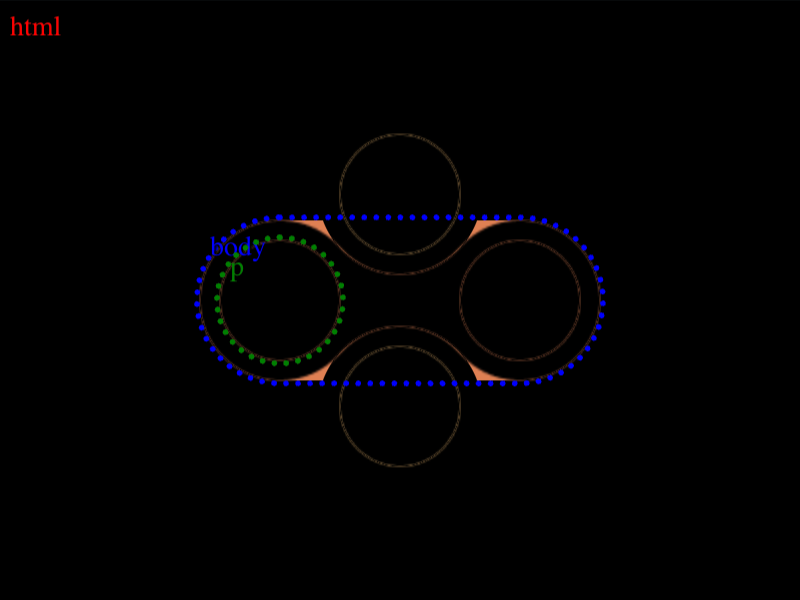
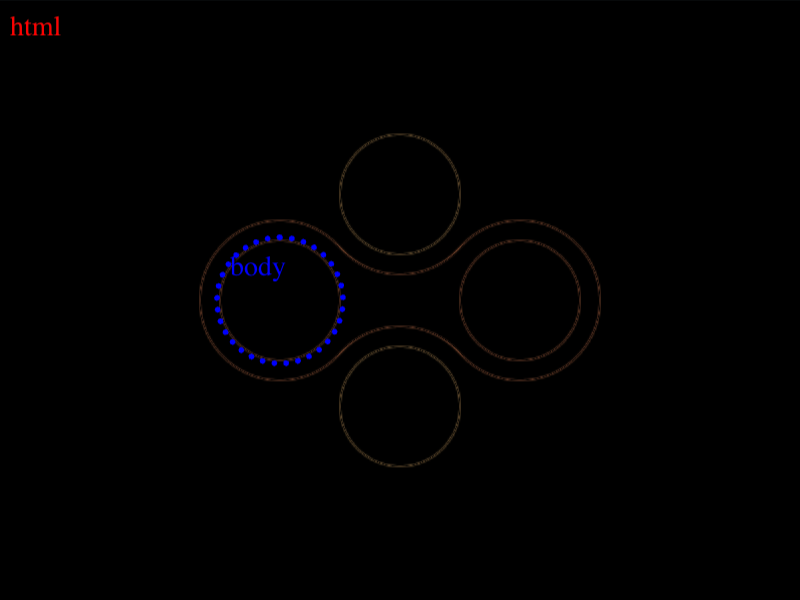
Score: 635.88, Characters: 253 (100.00% match) - CSSHub

diff --git a/Battles/Battle #2/#17. Fidget Spinner/README.md b/Battles/Battle #2/#17. Fidget Spinner/README.md
@@ -22,59 +22,31 @@ Challenge: <https://cssbattle.dev/play/17>
 ## Code
 
 ```html
-<p>
-<style>
-&{
-  background: #09042A;
-  
->*{
-  margin:110 100;
-  background:#E78481;
-  border-radius:9in;
-  padding: 10;
-  *{
-    height:60;
-    width:60;
-    margin:0;
-  border-radius:9in;
-   background:#09042A;
-    color:#09042A;
-    box-shadow: 
-      120px 0,
-      60px -53px #F5BB9C,
-      60px 53px #F5BB9C,
-      60px -54px 0 11px ,
-      60px 54px 0 11px 
-  }
- }
+<style>&{background:#09042A;*{margin:120 230 120 110;border-radius:9in;background:#09042A;color:#09042A;box-shadow:120px 0,60px -53px#F5BB9C,60px 53px#F5BB9C,60px -54px 0 11px,60px 54px 0 11px,0 0 0 10px#E78481,60px 0 0 10px#E78481,120px 0 0 10px#E78481
 ```
 
 ## Prettified code
 
 ```html
-<p>
 <style>
-&{
-  background: #09042A;
-  
->*{
-  margin:110 100;
-  background:#E78481;
-  border-radius:9in;
-  padding: 10;
-  *{
-    height:60;
-    width:60;
-    margin:0;
-  border-radius:9in;
-   background:#09042A;
-    color:#09042A;
-    box-shadow: 
+& {
+  background: #09042a;
+  * {
+    margin: 120 230 120 110;
+    border-radius: 9in;
+    background: #09042a;
+    color: #09042a;
+    box-shadow:
       120px 0,
-      60px -53px #F5BB9C,
-      60px 53px #F5BB9C,
-      60px -54px 0 11px ,
-      60px 54px 0 11px 
+      60px -53px #f5bb9c,
+      60px 53px #f5bb9c,
+      60px -54px 0 11px,
+      60px 54px 0 11px,
+      0 0 0 10px #e78481,
+      60px 0 0 10px #e78481,
+      120px 0 0 10px #e78481;
   }
- }
+}
+
+</style>
 ```

diff --git a/README.md b/README.md
@@ -25,7 +25,7 @@ Note - I have not yet complete all the challenges.
 <li><a href="./Battles/Battle%20%232/%2314.%20Web%20Maker%20Logo/">#14. Web Maker Logo</a> (198 Characters)</li>
 <li><a href="./Battles/Battle%20%232/%2315.%20Overlap/">#15. Overlap</a> (109 Characters)</li>
 <li><a href="./Battles/Battle%20%232/%2316.%20Eye%20of%20the%20Tiger/">#16. Eye of the Tiger</a> (153 Characters)</li>
-<li><a href="./Battles/Battle%20%232/%2317.%20Fidget%20Spinner/">#17. Fidget Spinner</a> (371 Characters)</li>
+<li><a href="./Battles/Battle%20%232/%2317.%20Fidget%20Spinner/">#17. Fidget Spinner</a> (253 Characters)</li>
 </ul>
 </details>
 </li>
